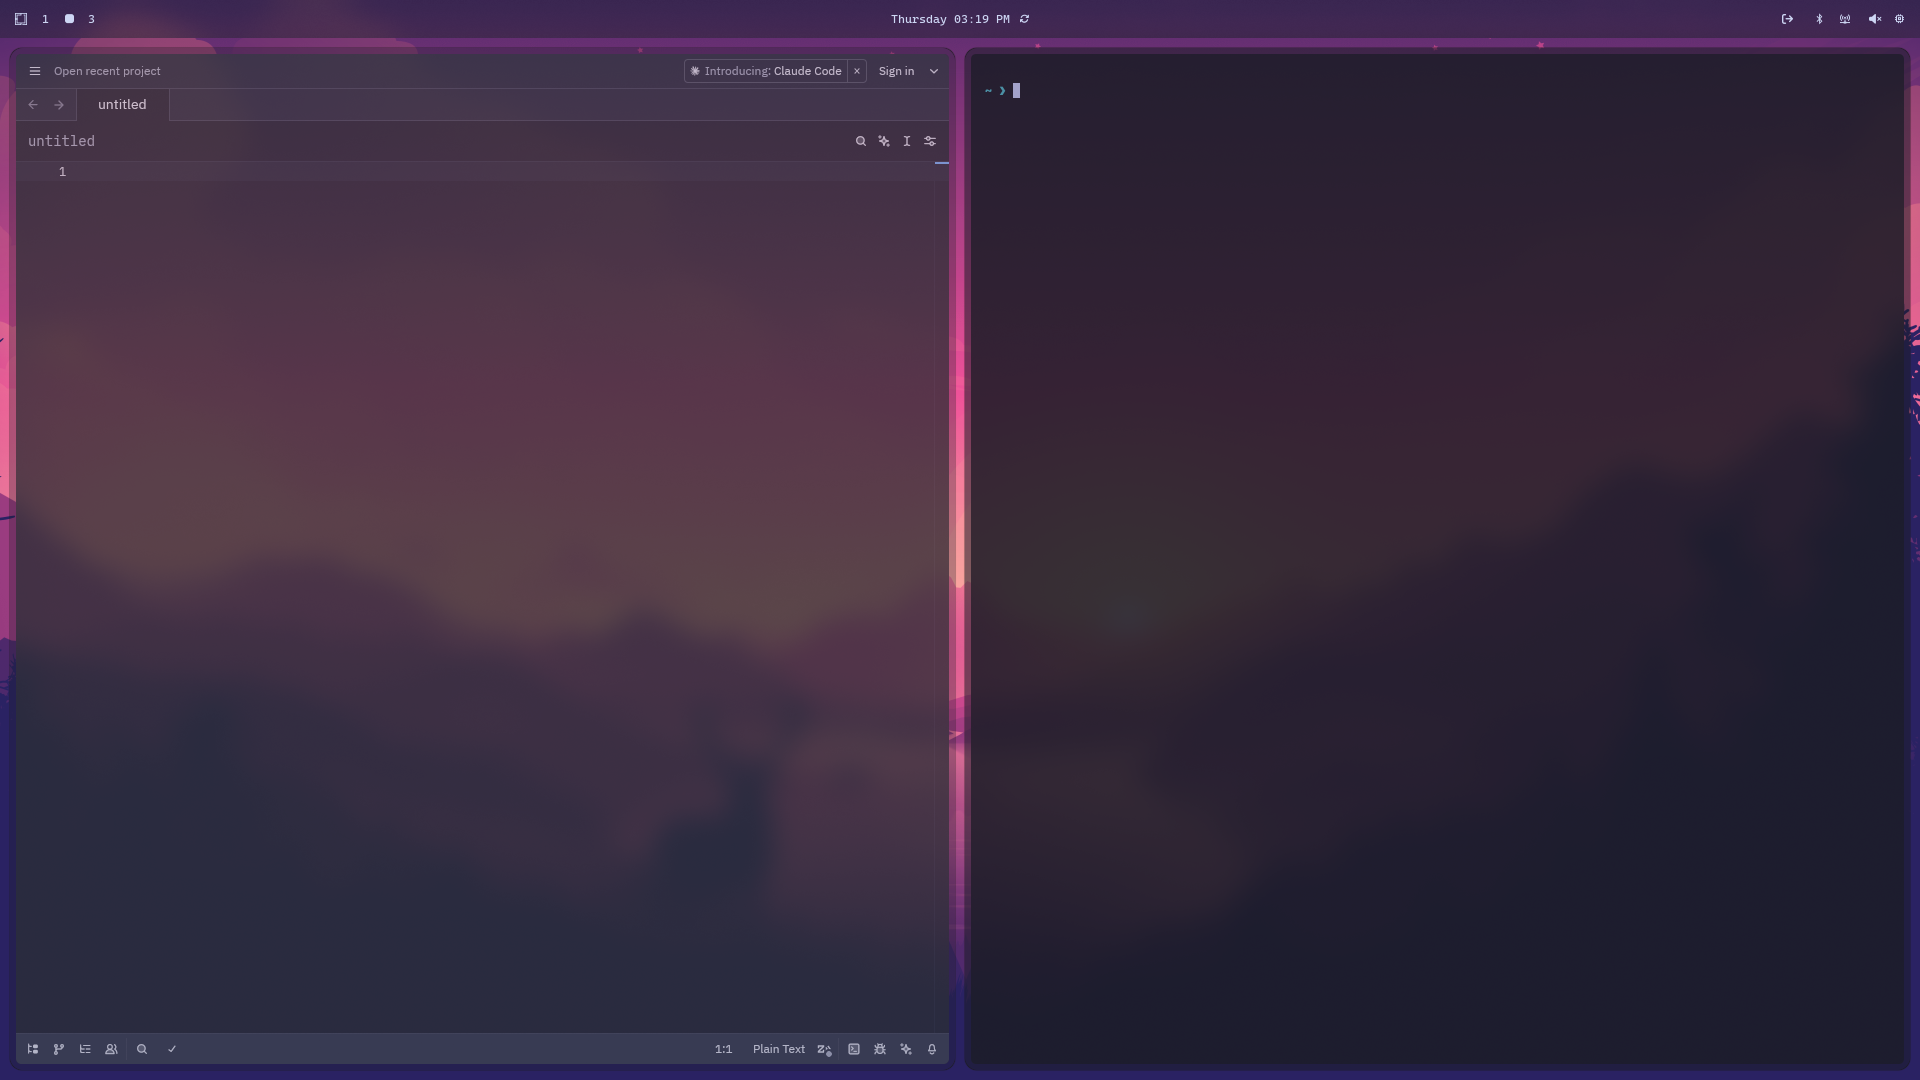
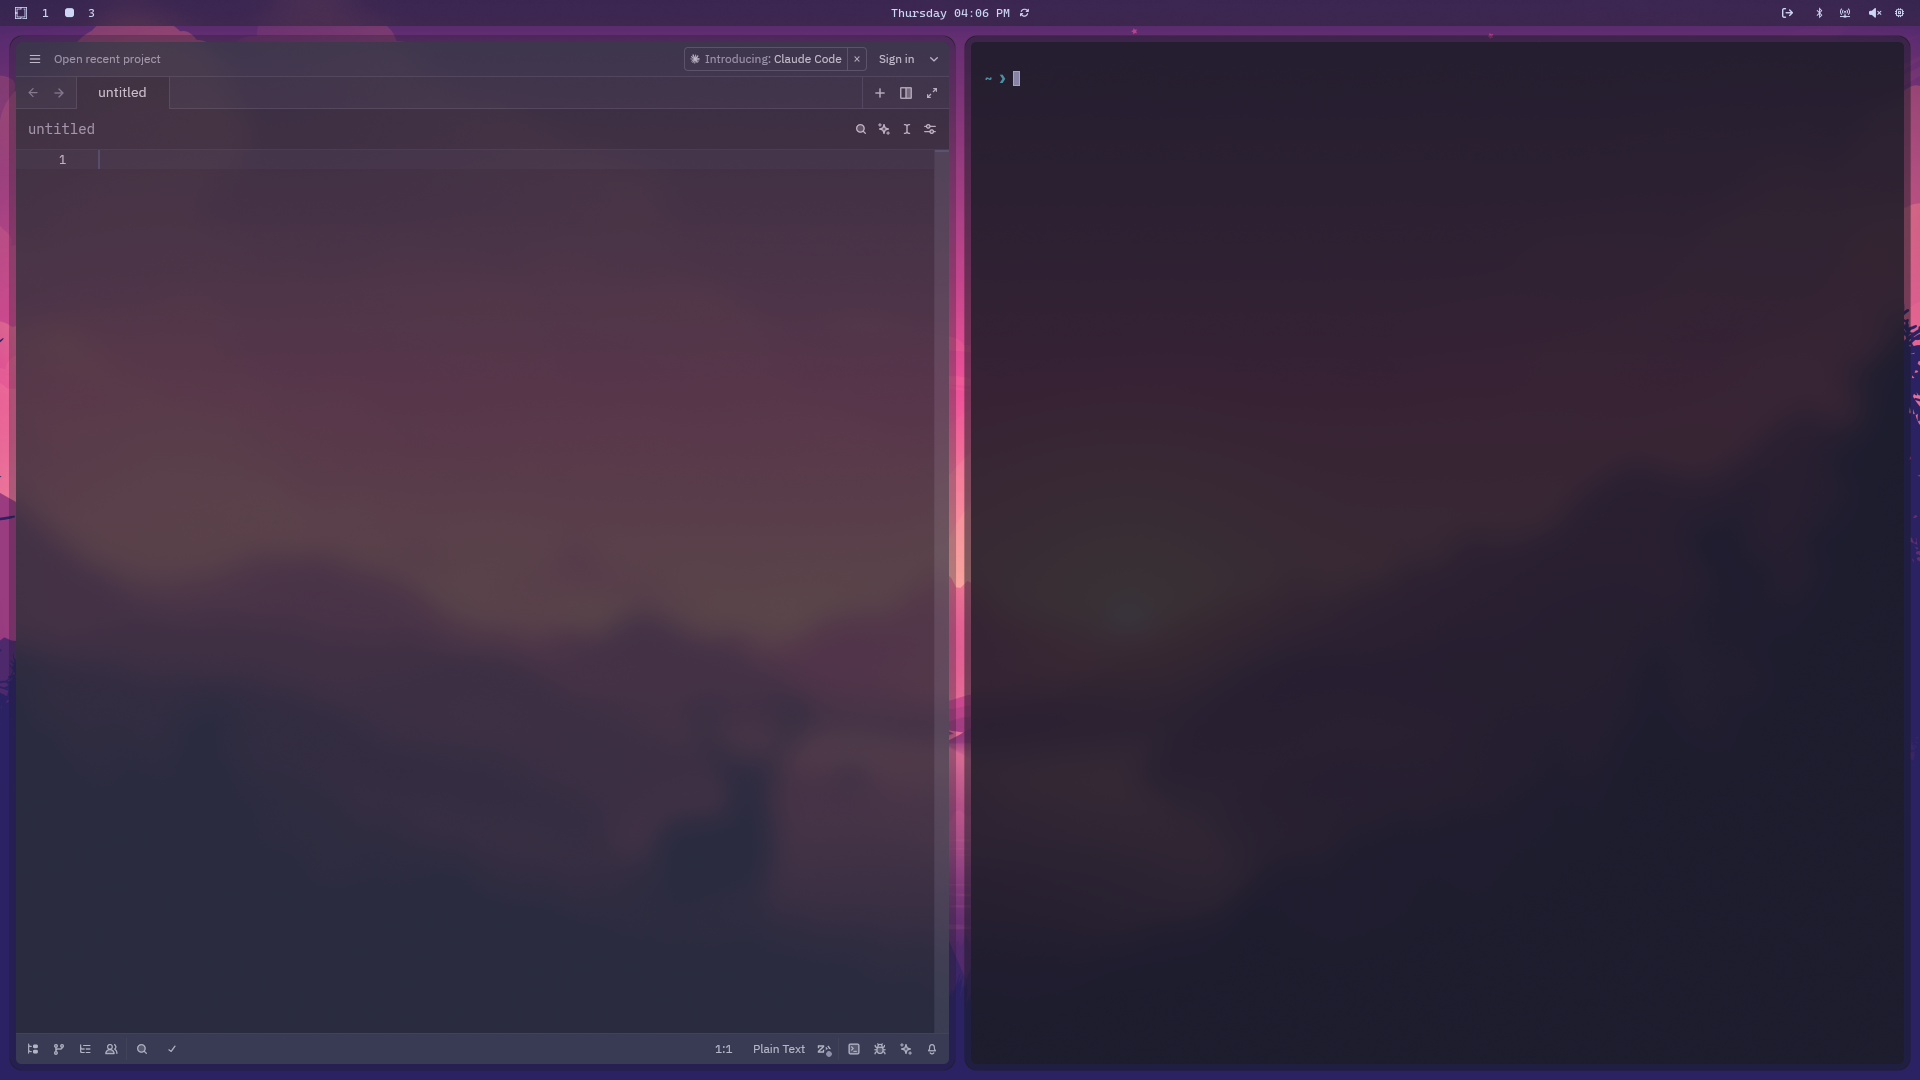
add readme and update preview image

Changed region(s): [[0.0, 0.0, 1.0, 0.1528]]

diff --git a/README.md b/README.md
@@ -1,0 +1,15 @@
+# Tokyo Glass Theme
+
+## Quick Install
+
+```bash
+omarchy-theme-install https://github.com/coreydemarse/omarchy-tokyo-glass-theme
+```
+
+## Preview
+
+![preview](https://github.com/coreydemarse/omarchy-tokyo-glass-theme/blob/main/preview.png)
+
+## Credits
+
+- Tokyo Night Theme and it's creators
